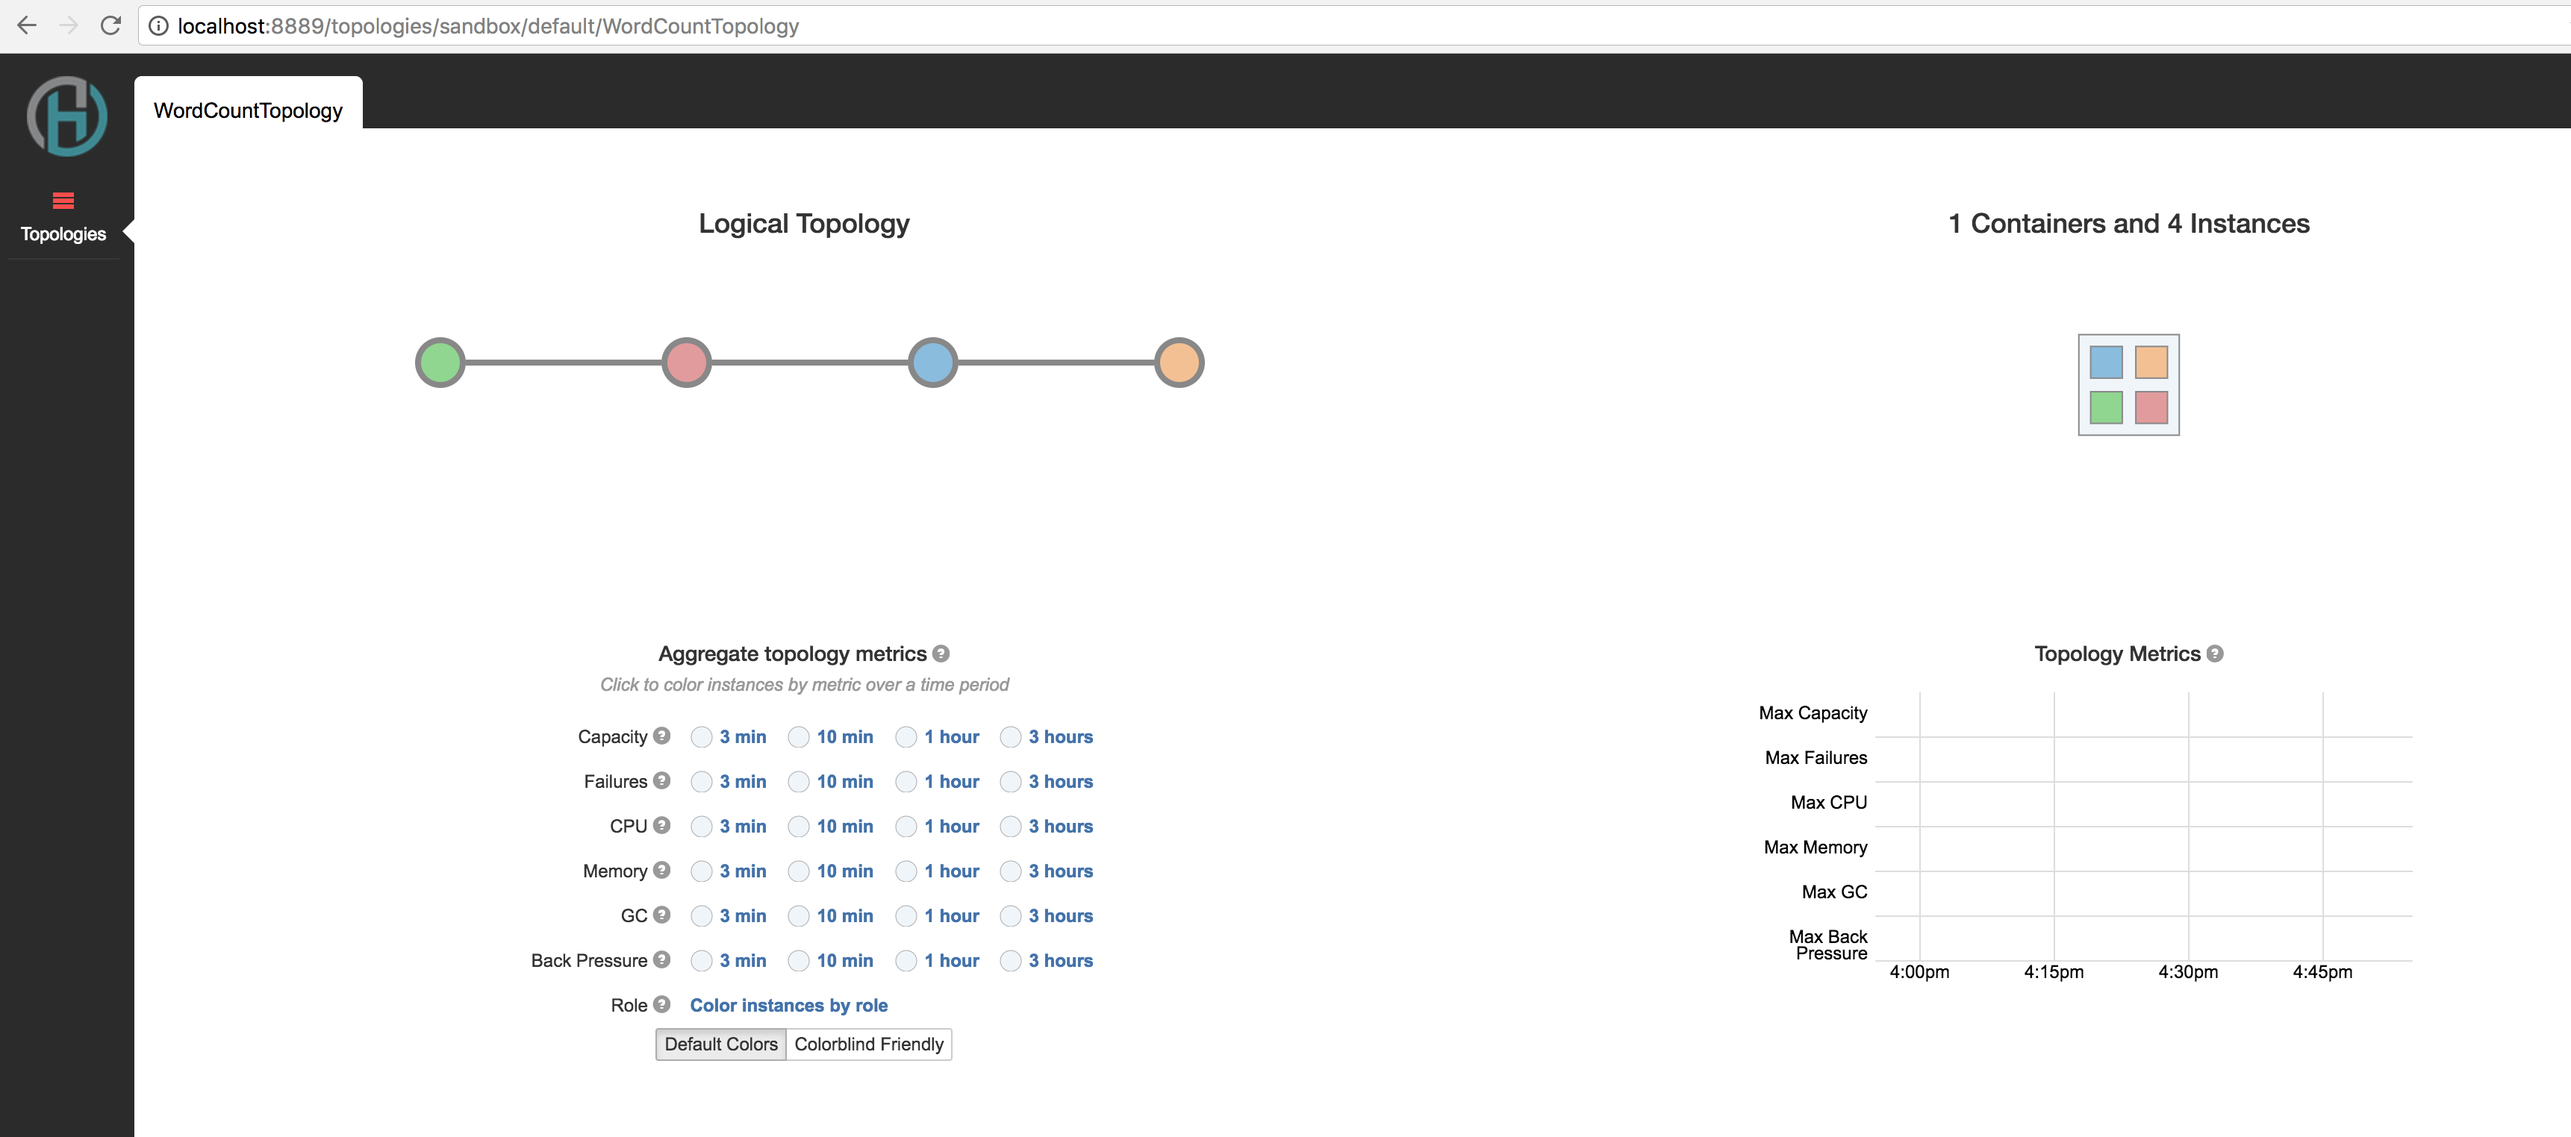
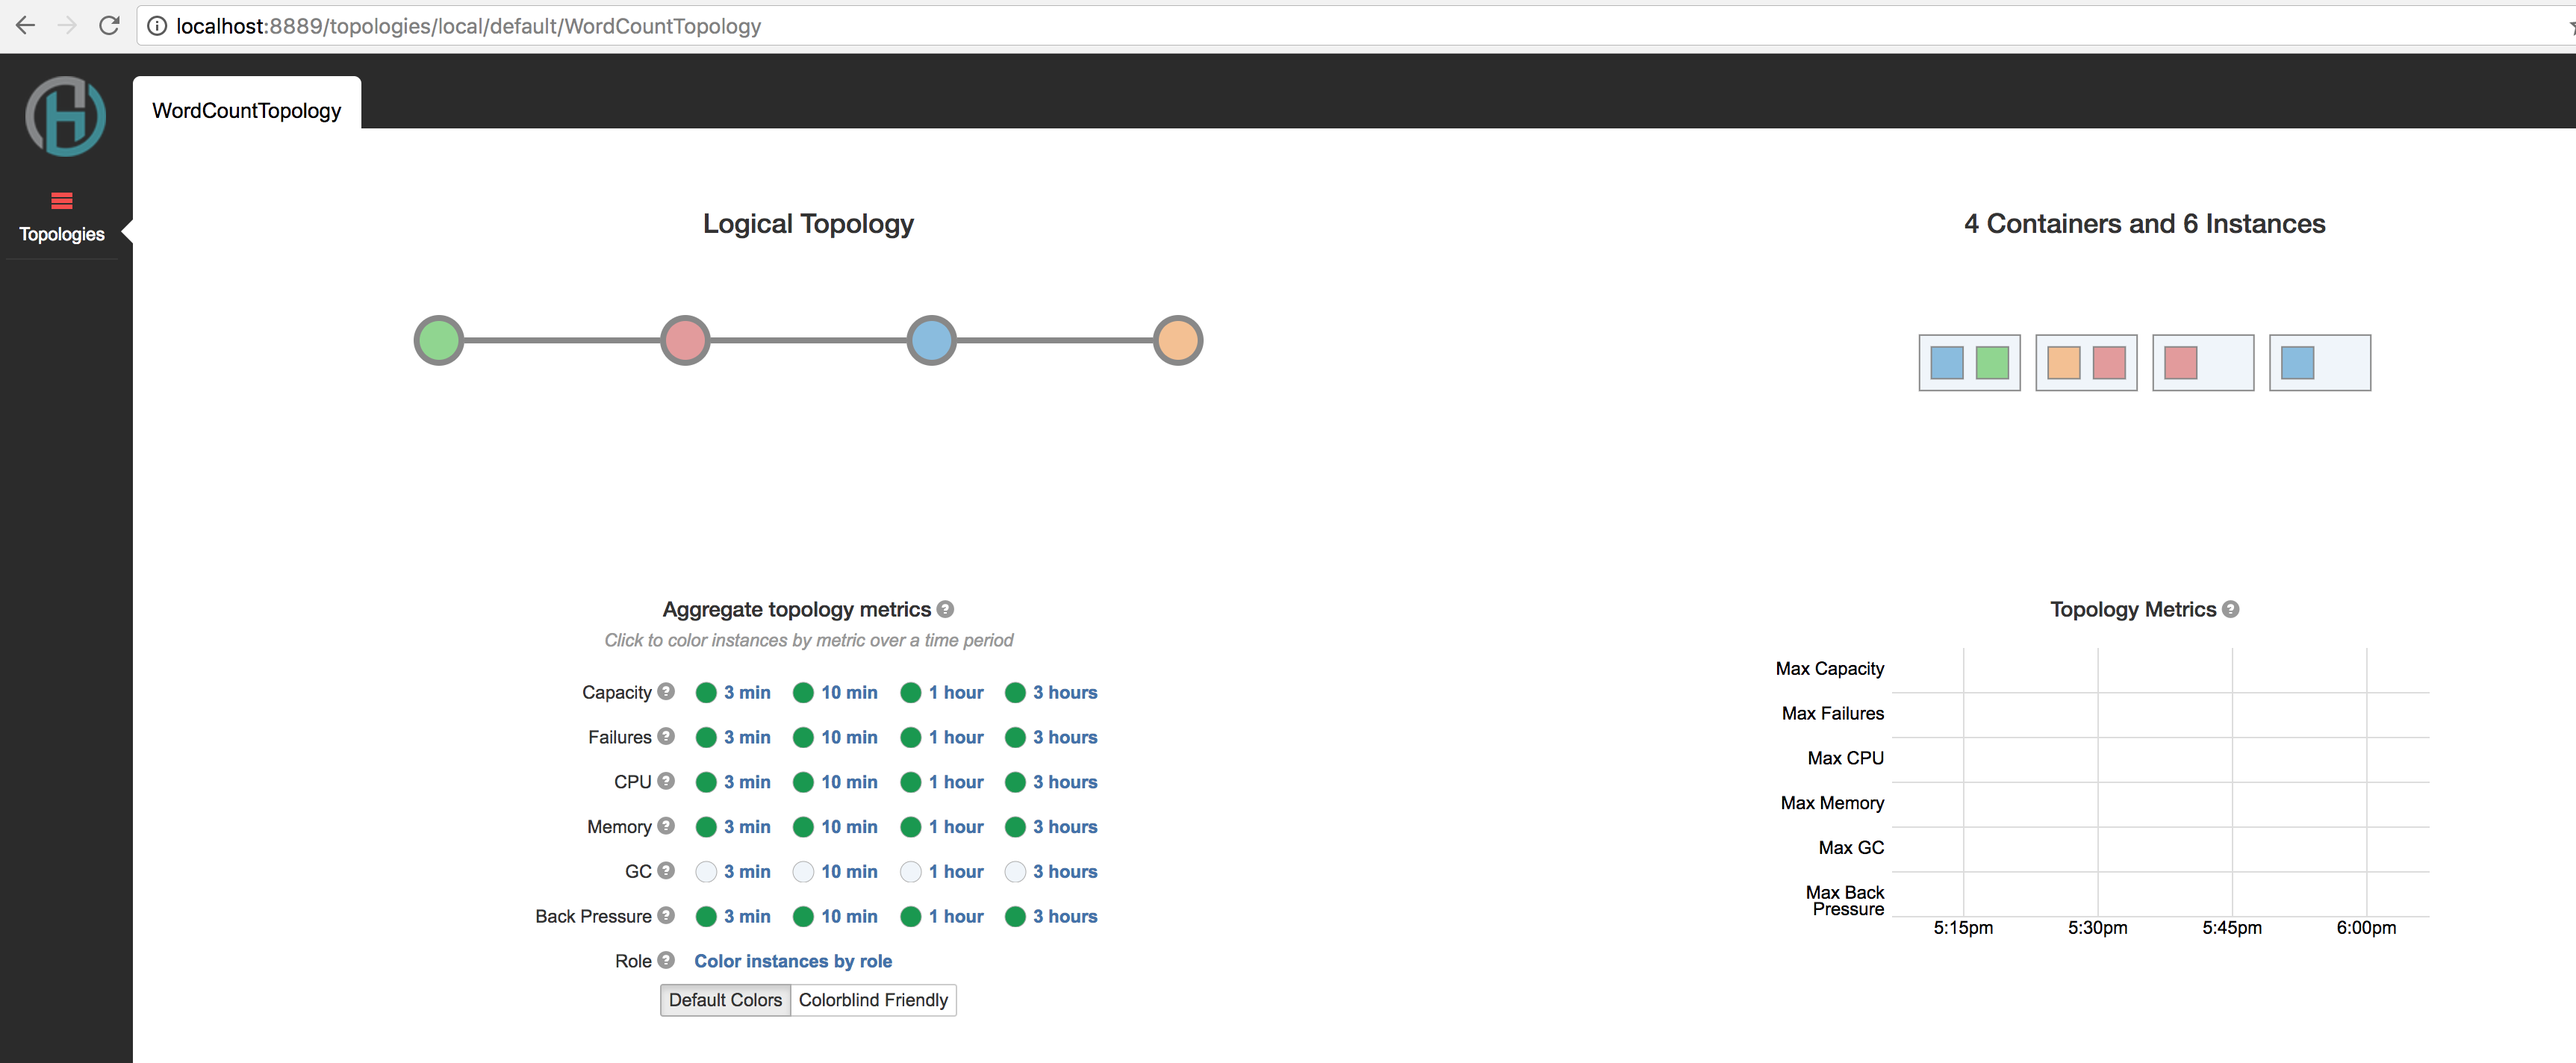
Update container parallelism

diff --git a/src/main/java/tutorial/WordCountTopology.java b/src/main/java/tutorial/WordCountTopology.java
@@ -91,10 +91,10 @@ public class WordCountTopology {
         conf.setNumWorkers(4);
 
         // Resource Configs
-        com.twitter.heron.api.Config.setComponentRam(conf, "sentence", ByteAmount.fromMegabytes(64));
-        com.twitter.heron.api.Config.setComponentRam(conf, "split", ByteAmount.fromGigabytes(64));
-        com.twitter.heron.api.Config.setComponentRam(conf, "count", ByteAmount.fromGigabytes(64));
-        com.twitter.heron.api.Config.setComponentRam(conf, "pulsar", ByteAmount.fromGigabytes(64));
+        com.twitter.heron.api.Config.setComponentRam(conf, "sentence", ByteAmount.fromMegabytes(256));
+        com.twitter.heron.api.Config.setComponentRam(conf, "split", ByteAmount.fromMegabytes(256));
+        com.twitter.heron.api.Config.setComponentRam(conf, "count", ByteAmount.fromMegabytes(256));
+        com.twitter.heron.api.Config.setComponentRam(conf, "pulsar", ByteAmount.fromMegabytes(256));
         com.twitter.heron.api.Config.setContainerCpuRequested(conf, 0.5f);
 
         //submit the topology
